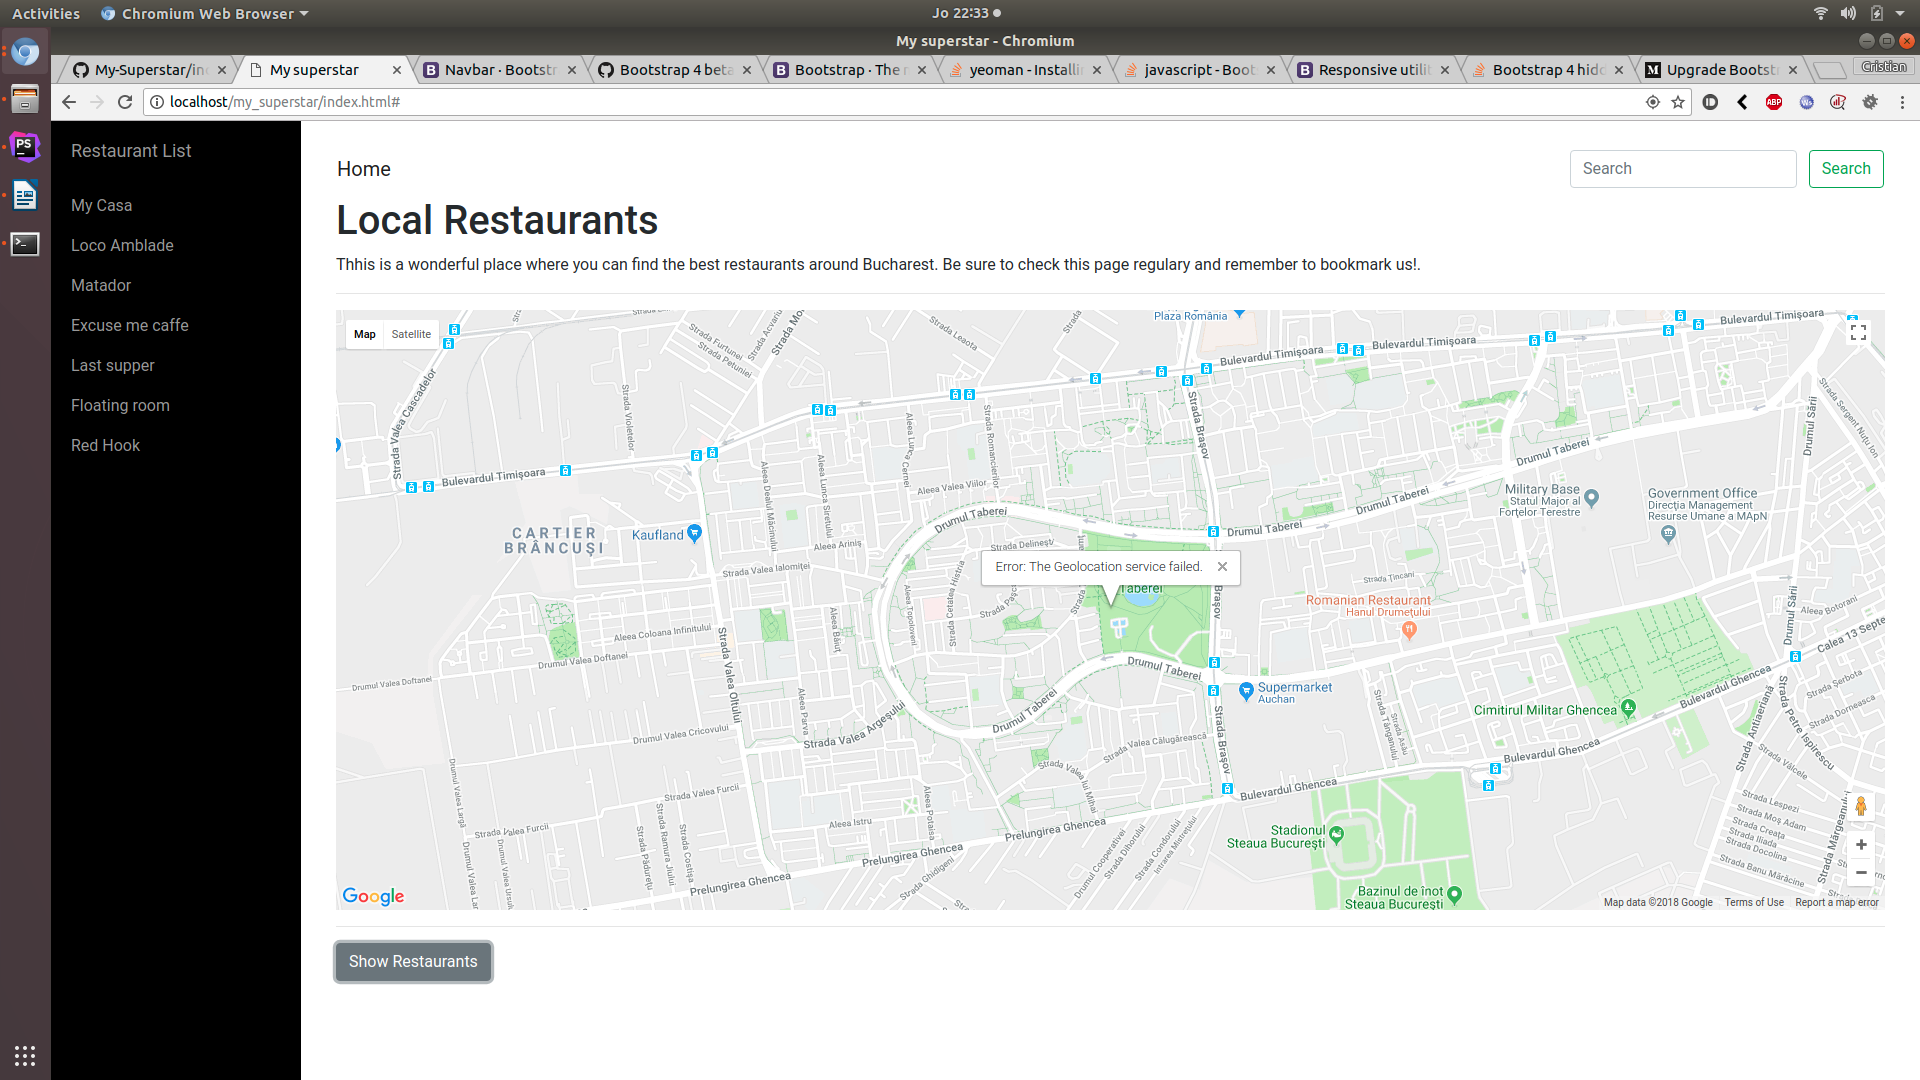
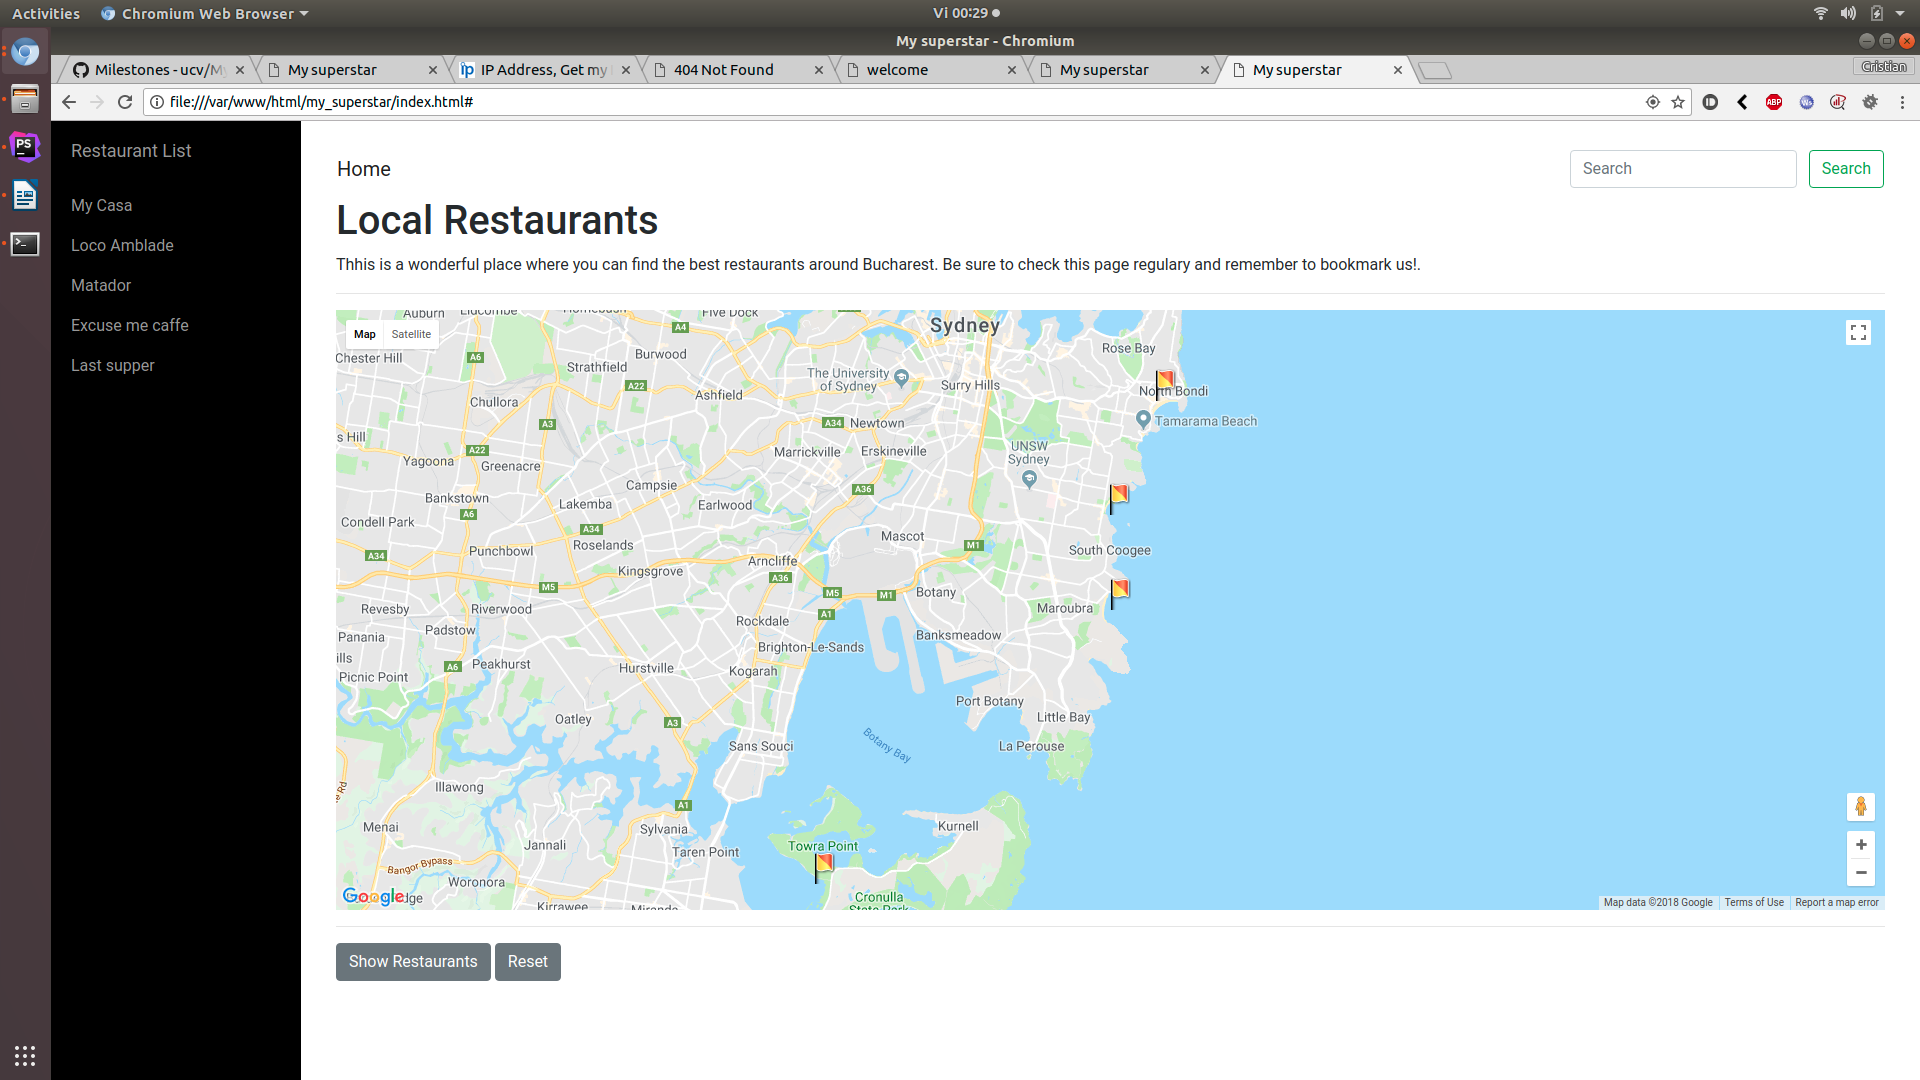
Some error handeling and updated the demo

diff --git a/assets/js/google_maps.js b/assets/js/google_maps.js
@@ -12,11 +12,22 @@ function initMap() {
 
     $.getJSON( "assets/restaurants.json", function( data ) {
         beaches = data;
-        setMarkers(map);
     }).fail(function( jqxhr, textStatus, error ) {
         var err = textStatus + ", " + error;
         console.log( "Request Failed: " + err );
+        //this is a failsafe so it woks on local whitout a webserver
+        beaches = [
+            ['Bondi Beach', -33.890542, 151.274856, 4],
+            ['Coogee Beach', -33.923036, 151.259052, 5],
+            ['Cronulla Beach', -34.028249, 151.157507, 3],
+            ['Manly Beach', -33.80010128657071, 151.28747820854187, 2],
+            ['Maroubra Beach', -33.950198, 151.259302, 1]
+        ];
+
+
     });
+
+    setMarkers(map);
 
 
     // Try HTML5 geolocation.
@@ -78,6 +89,13 @@ function setMarkers(map) {
 }
 
 function handleLocationError(browserHasGeolocation, infoWindow, pos) {
+
+    var err = browserHasGeolocation ?
+        'Error: The Geolocation service failed.' :
+        'Error: Your browser doesn\'t support geolocation.';
+
+    console.log("Request Failed:",err);
+
     /* Notice Geolocation woks only on https
     *  https://developers.google.com/web/updates/2016/04/geolocation-on-secure-contexts-only
     */
